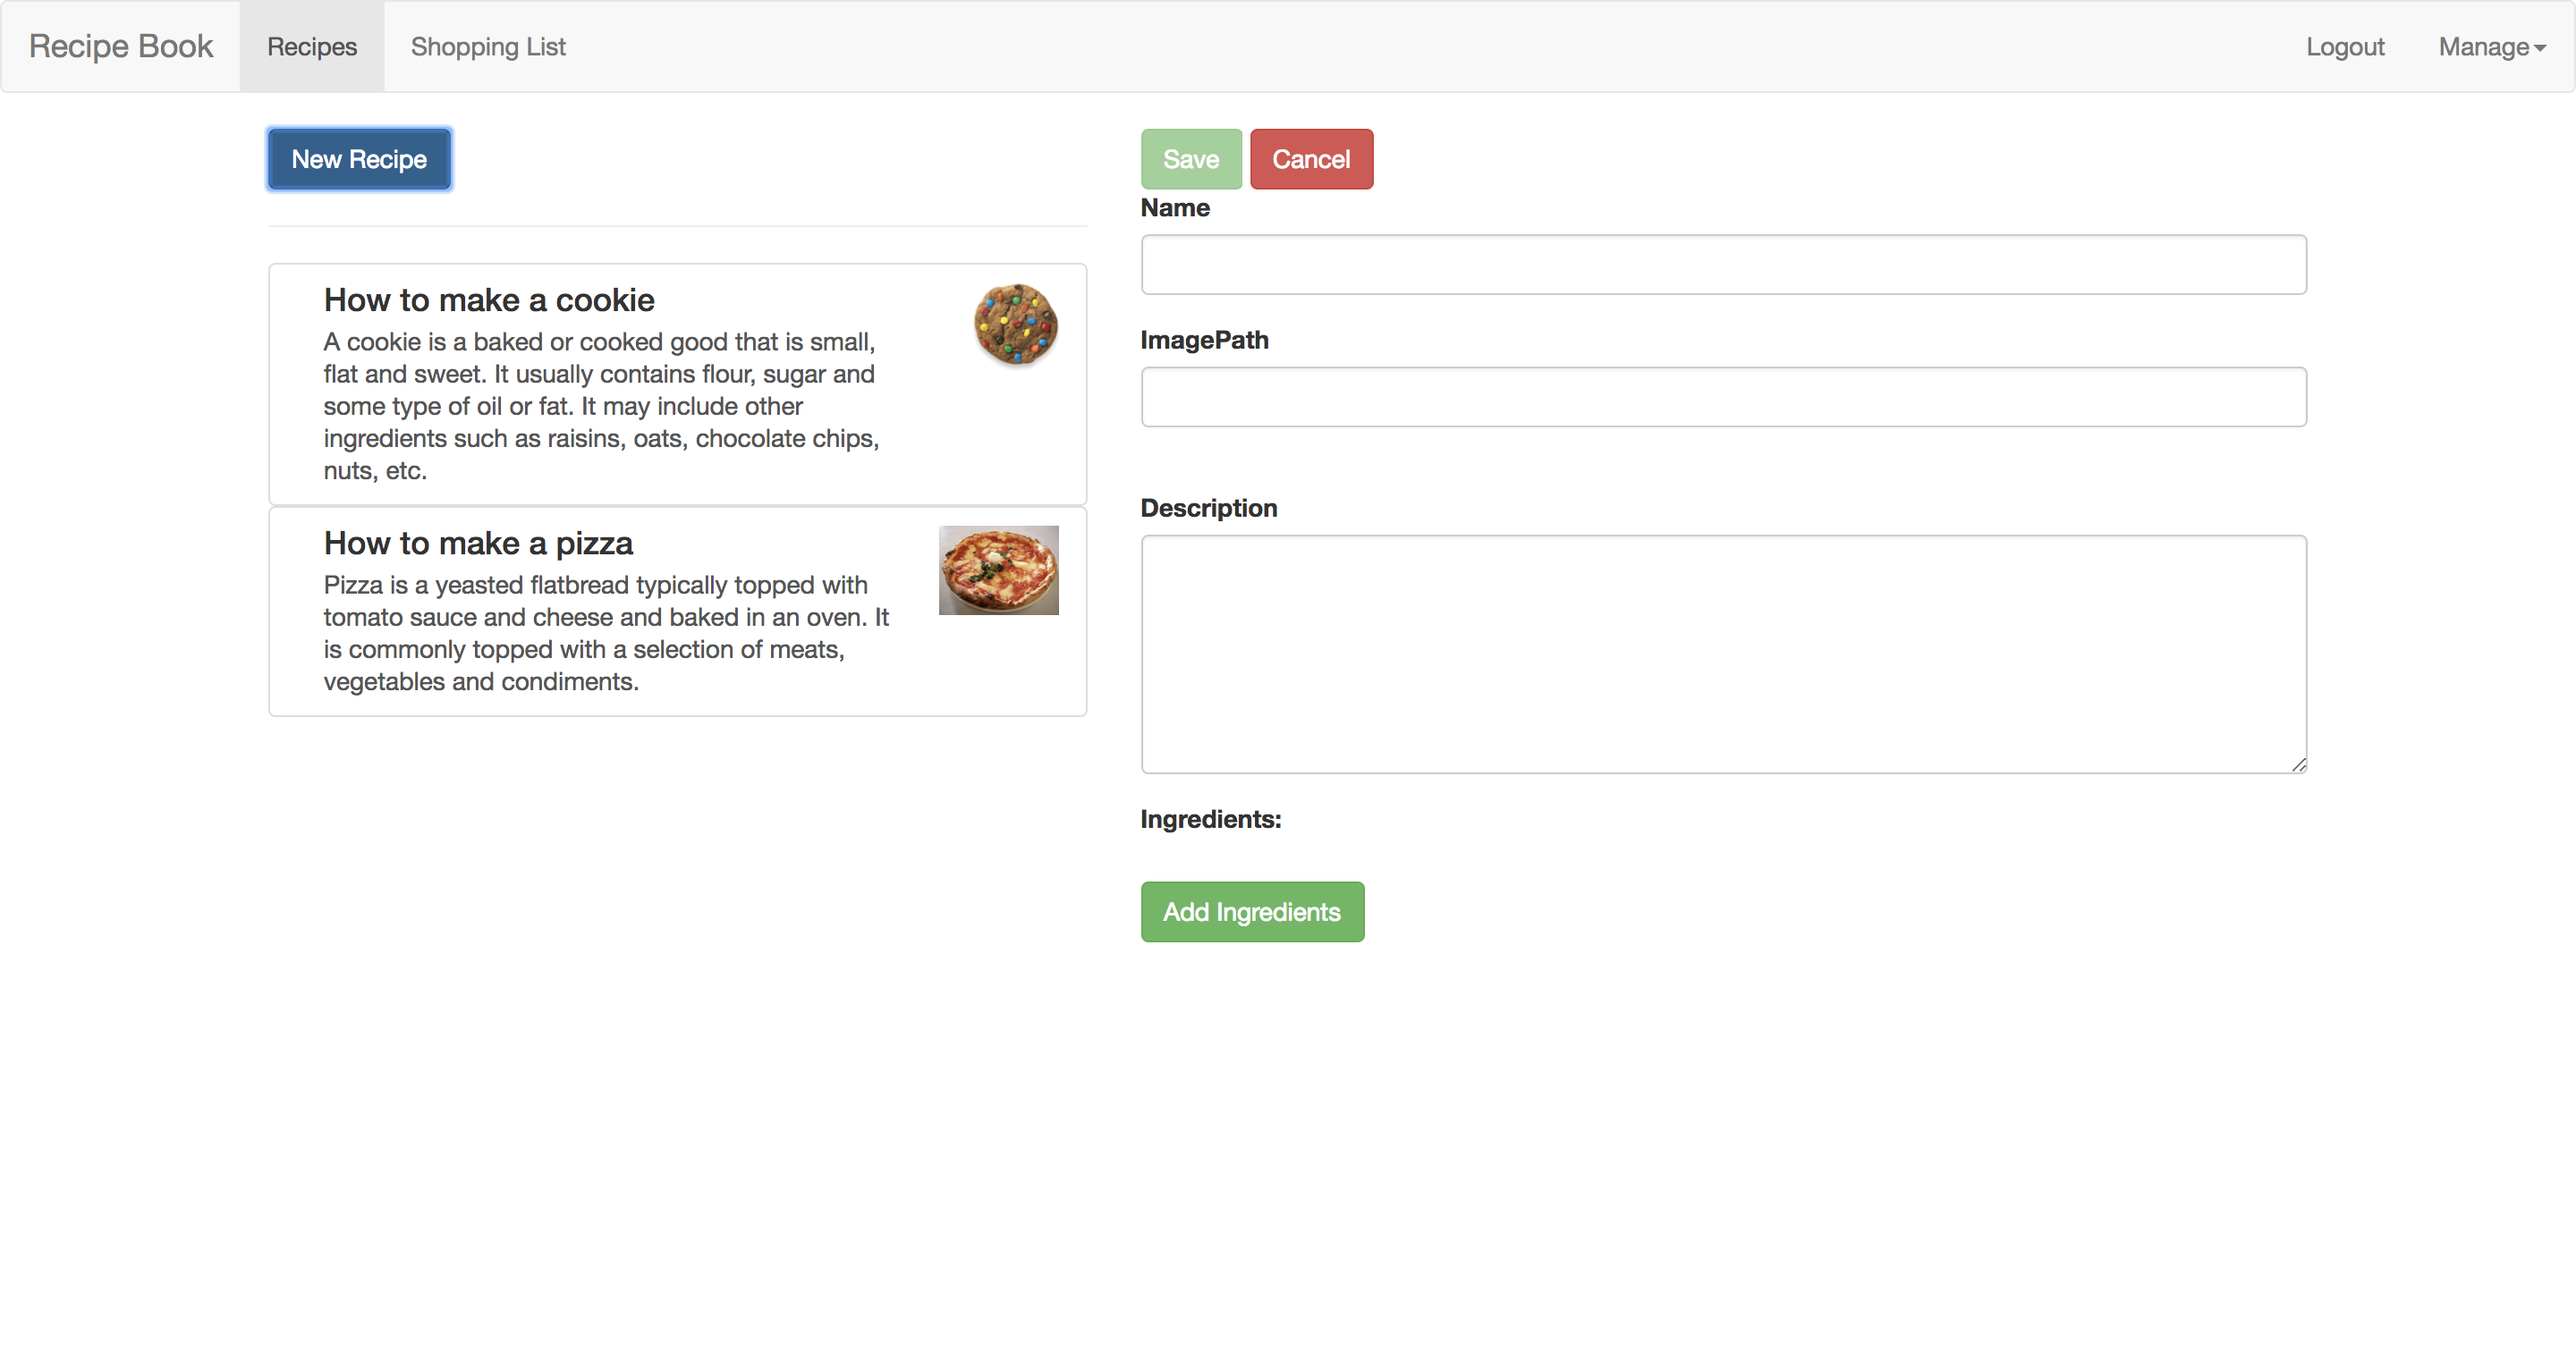
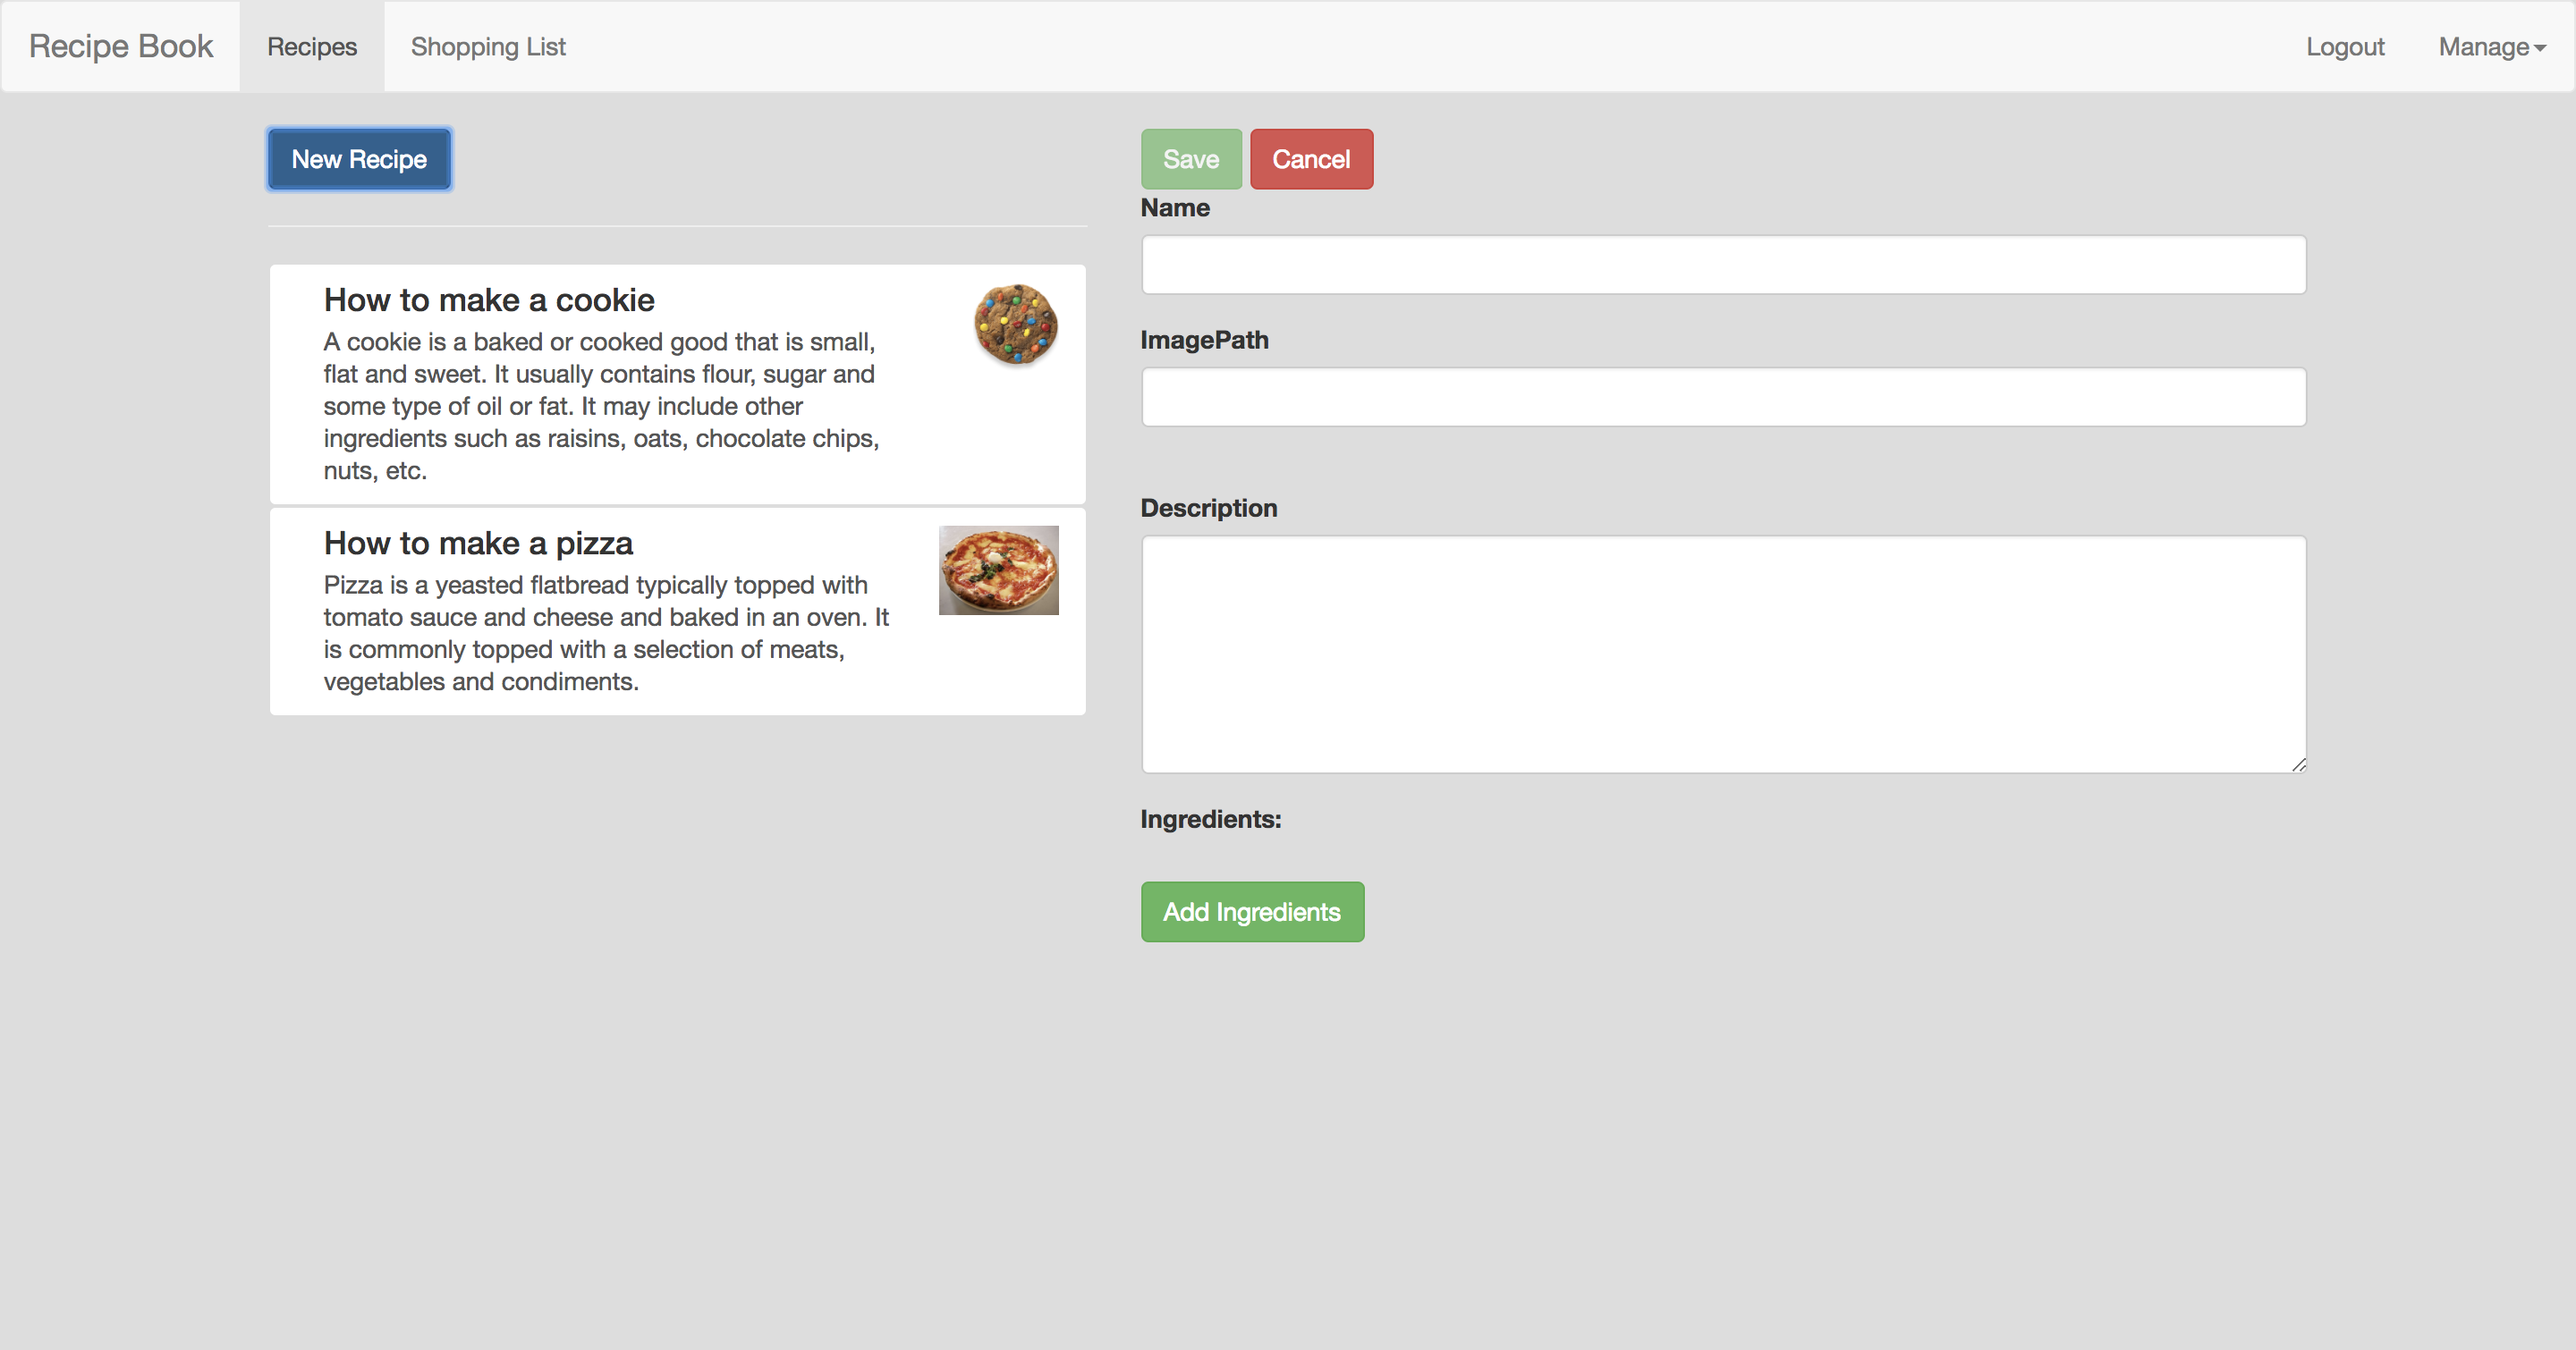
fix: screenshots modified

diff --git a/src/index.html b/src/index.html
@@ -8,7 +8,7 @@
   <meta name="viewport" content="width=device-width, initial-scale=1">
   <link rel="icon" type="image/x-icon" href="favicon.ico">
 </head>
-<body>
+<body style="background-color: #dddddd">
   <app-root></app-root>
 </body>
 </html>

diff --git a/src/app/app.component.html b/src/app/app.component.html
@@ -7,4 +7,3 @@
     </div>
   </div>
 </div>
-
